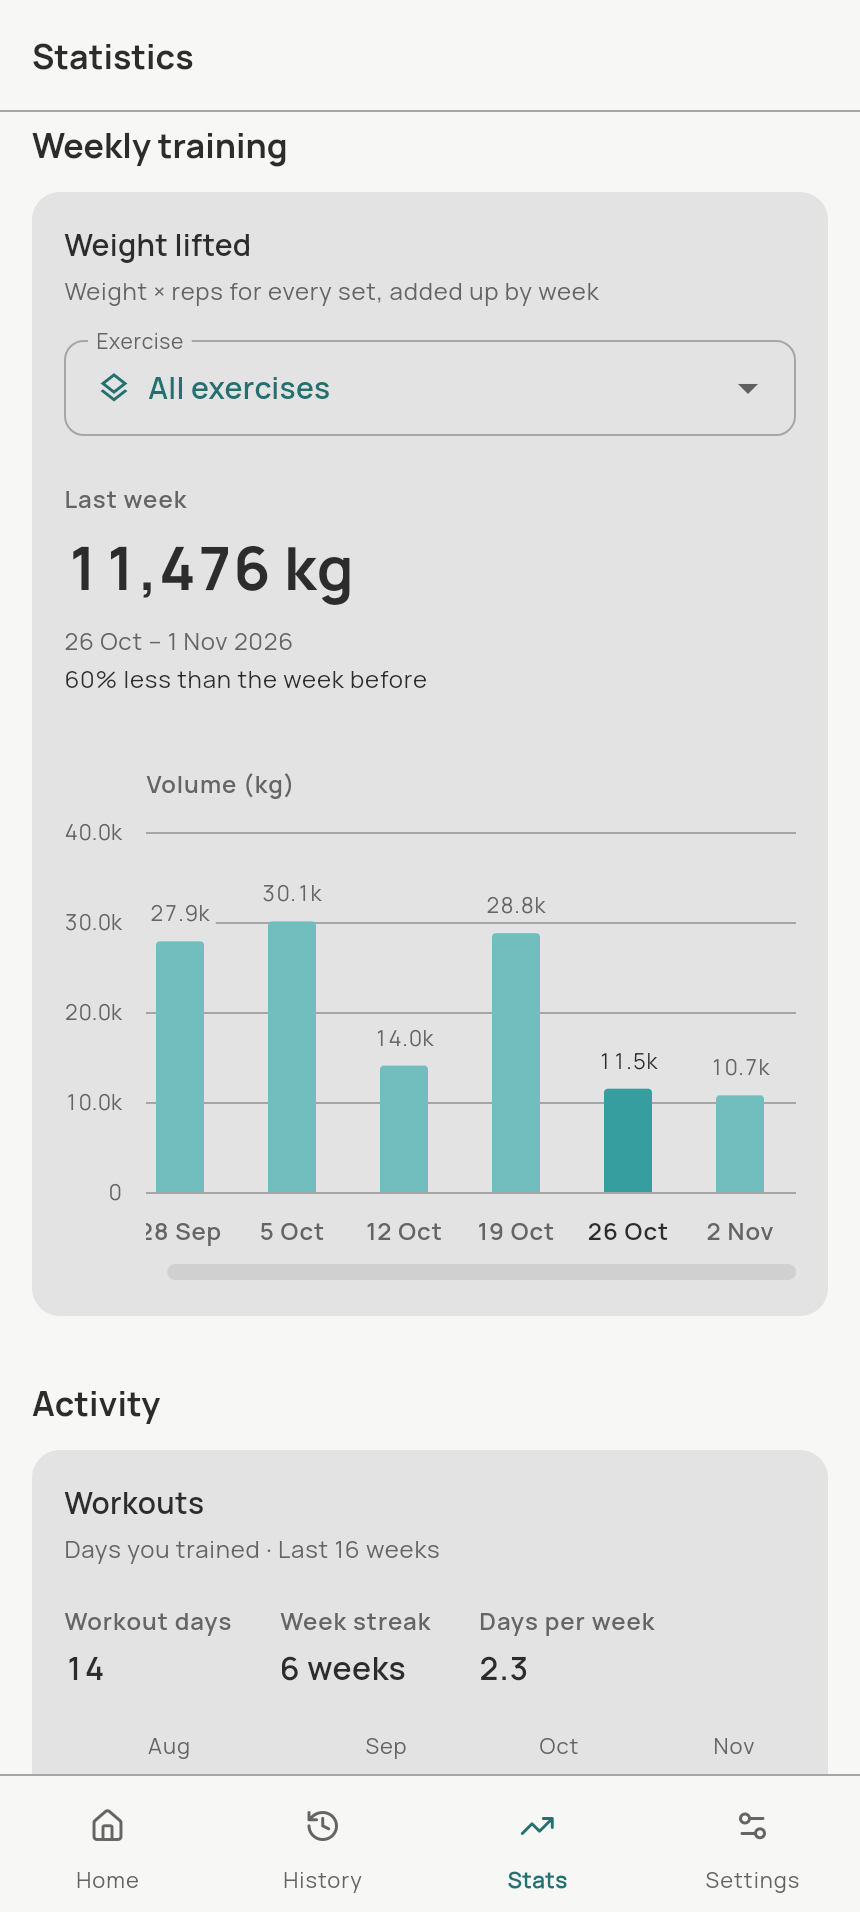
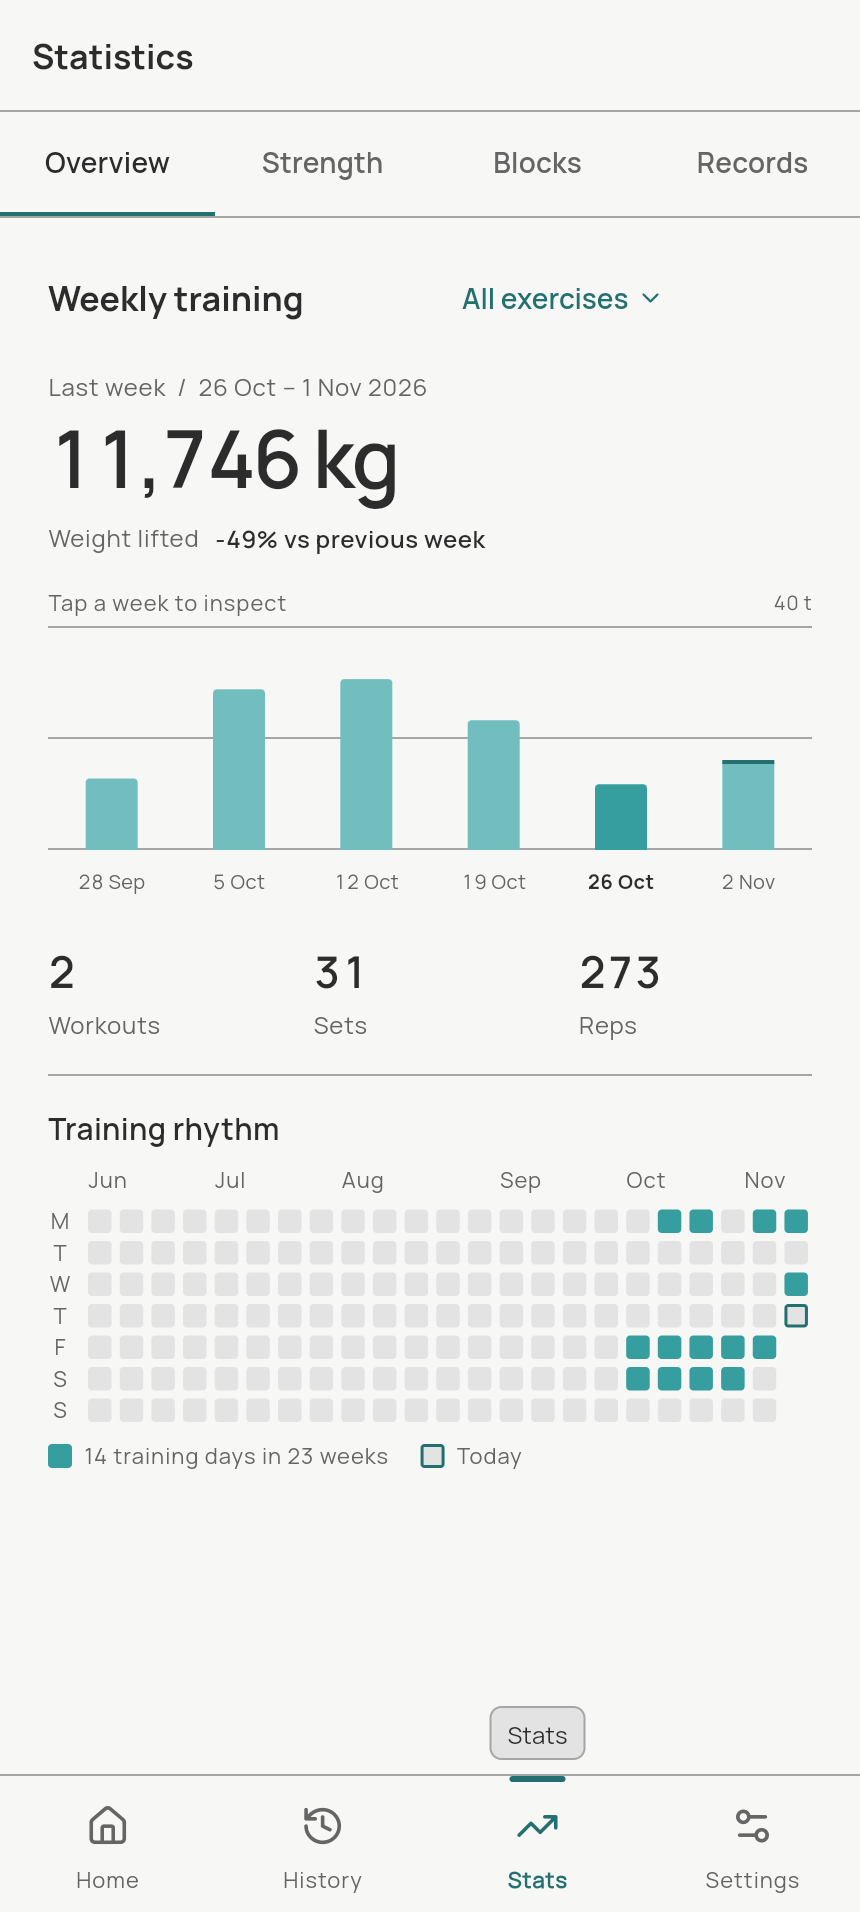
docs: restore screenshot gallery and refresh statistics from web

diff --git a/README.md b/README.md
@@ -41,26 +41,101 @@ workspaces, and workout progress.
 
 ## Screenshots
 
-Screens below are rendered from the current Flutter widgets with example workout
-data, without device status or navigation bars. The light and dark captures use
-the same layouts and theme system as the app.
+The gallery covers workout planning, logging, history, statistics, and settings.
+Statistics captures come from the current web build with example training history;
+no personal account data is shown.
 
 <table>
   <tr>
-    <td align="center"><strong>Workout plans</strong><br><img src="screenshots/home.png" width="280" alt="Home with workout rotation, weekly summary, and workout plans"></td>
-    <td align="center"><strong>Workout logging</strong><br><img src="screenshots/workout.png" width="280" alt="Workout log with weight, reps, and set controls"></td>
-    <td align="center"><strong>Workout history</strong><br><img src="screenshots/history.png" width="280" alt="Workout history grouped by month with training volume and records"></td>
+    <td align="center">
+      <strong>Workout plans</strong><br>
+      <img src="screenshots/home.png" width="300" alt="OpenGym workout plans screen">
+    </td>
+    <td align="center">
+      <strong>Workout logging</strong><br>
+      <img src="screenshots/workout.png" width="300" alt="OpenGym active workout screen">
+    </td>
+    <td align="center">
+      <strong>Fast set entry</strong><br>
+      <img src="screenshots/workout_keypad.png" width="300" alt="OpenGym workout keypad for entering a set">
+    </td>
+  </tr>
+  <tr>
+    <td align="center">
+      <strong>Workout history</strong><br>
+      <img src="screenshots/history.png" width="300" alt="OpenGym workout history with personal records">
+    </td>
+    <td align="center">
+      <strong>Statistics overview</strong><br>
+      <img src="screenshots/statistics.png" width="300" alt="OpenGym statistics Overview with weekly volume and training calendar">
+    </td>
+    <td align="center">
+      <strong>Block progress</strong><br>
+      <img src="screenshots/statistics_2.png" width="300" alt="OpenGym training block workload and progress">
+    </td>
+  </tr>
+  <tr>
+    <td align="center">
+      <strong>Exercise progress</strong><br>
+      <img src="screenshots/statistics_3.png" width="300" alt="OpenGym exercise progress chart">
+    </td>
+    <td align="center">
+      <strong>Appearance and preferences</strong><br>
+      <img src="screenshots/settings.png" width="300" alt="OpenGym settings screen">
+    </td>
+    <td align="center">
+      <strong>Training blocks</strong><br>
+      <img src="screenshots/block_menu.png" width="300" alt="OpenGym training block menu for switching, creating and reordering blocks">
+    </td>
+  </tr>
+  <tr>
+    <td align="center">
+      <strong>Create a block</strong><br>
+      <img src="screenshots/block_create.png" width="300" alt="OpenGym create block dialog with name and week count">
+    </td>
+    <td align="center">
+      <strong>Personal records</strong><br>
+      <img src="screenshots/statistics_records.png" width="300" alt="OpenGym personal records with weights, reps, and workout dates">
+    </td>
+    <td></td>
   </tr>
 </table>
 
 <details>
 <summary><strong>Dark mode</strong></summary>
-
+<br>
 <table>
   <tr>
-    <td align="center"><strong>Workout plans</strong><br><img src="screenshots/home_dark.png" width="280" alt="Workout plans in dark mode"></td>
-    <td align="center"><strong>Workout logging</strong><br><img src="screenshots/workout_dark.png" width="280" alt="Workout logging in dark mode"></td>
-    <td align="center"><strong>Workout history</strong><br><img src="screenshots/history_dark.png" width="280" alt="Workout history in dark mode"></td>
+    <td align="center">
+      <strong>Plans</strong><br>
+      <img src="screenshots/home_dark.png" width="200" alt="OpenGym workout plans screen in dark mode">
+    </td>
+    <td align="center">
+      <strong>Set entry</strong><br>
+      <img src="screenshots/workout_keypad_dark.png" width="200" alt="OpenGym workout keypad in dark mode">
+    </td>
+    <td align="center">
+      <strong>Statistics</strong><br>
+      <img src="screenshots/statistics_dark.png" width="200" alt="OpenGym statistics screen in dark mode">
+    </td>
+    <td align="center">
+      <strong>Training blocks</strong><br>
+      <img src="screenshots/block_menu_dark.png" width="200" alt="OpenGym training block menu in dark mode">
+    </td>
+    <td align="center">
+      <strong>Create a block</strong><br>
+      <img src="screenshots/block_create_dark.png" width="200" alt="OpenGym create block dialog in dark mode">
+    </td>
+    <td align="center">
+      <strong>Settings</strong><br>
+      <img src="screenshots/settings_dark.png" width="200" alt="OpenGym settings screen in dark mode">
+    </td>
+  </tr>
+  <tr>
+    <td align="center">
+      <strong>Personal records</strong><br>
+      <img src="screenshots/statistics_records_dark.png" width="200" alt="OpenGym personal records in dark mode">
+    </td>
   </tr>
 </table>
 
